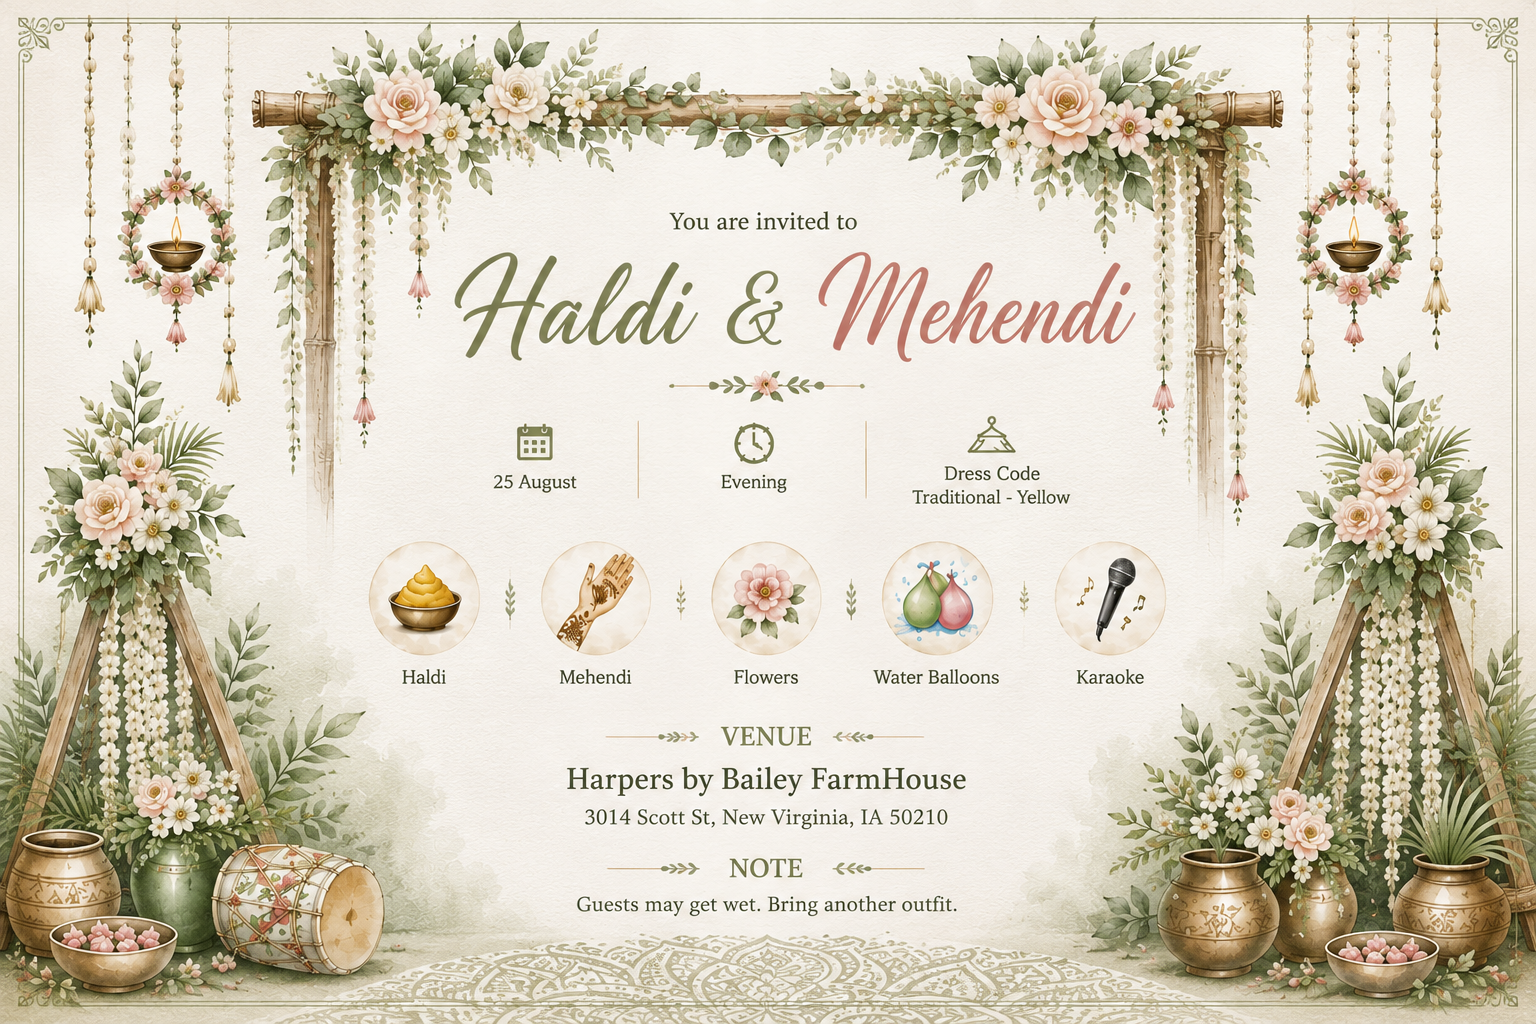
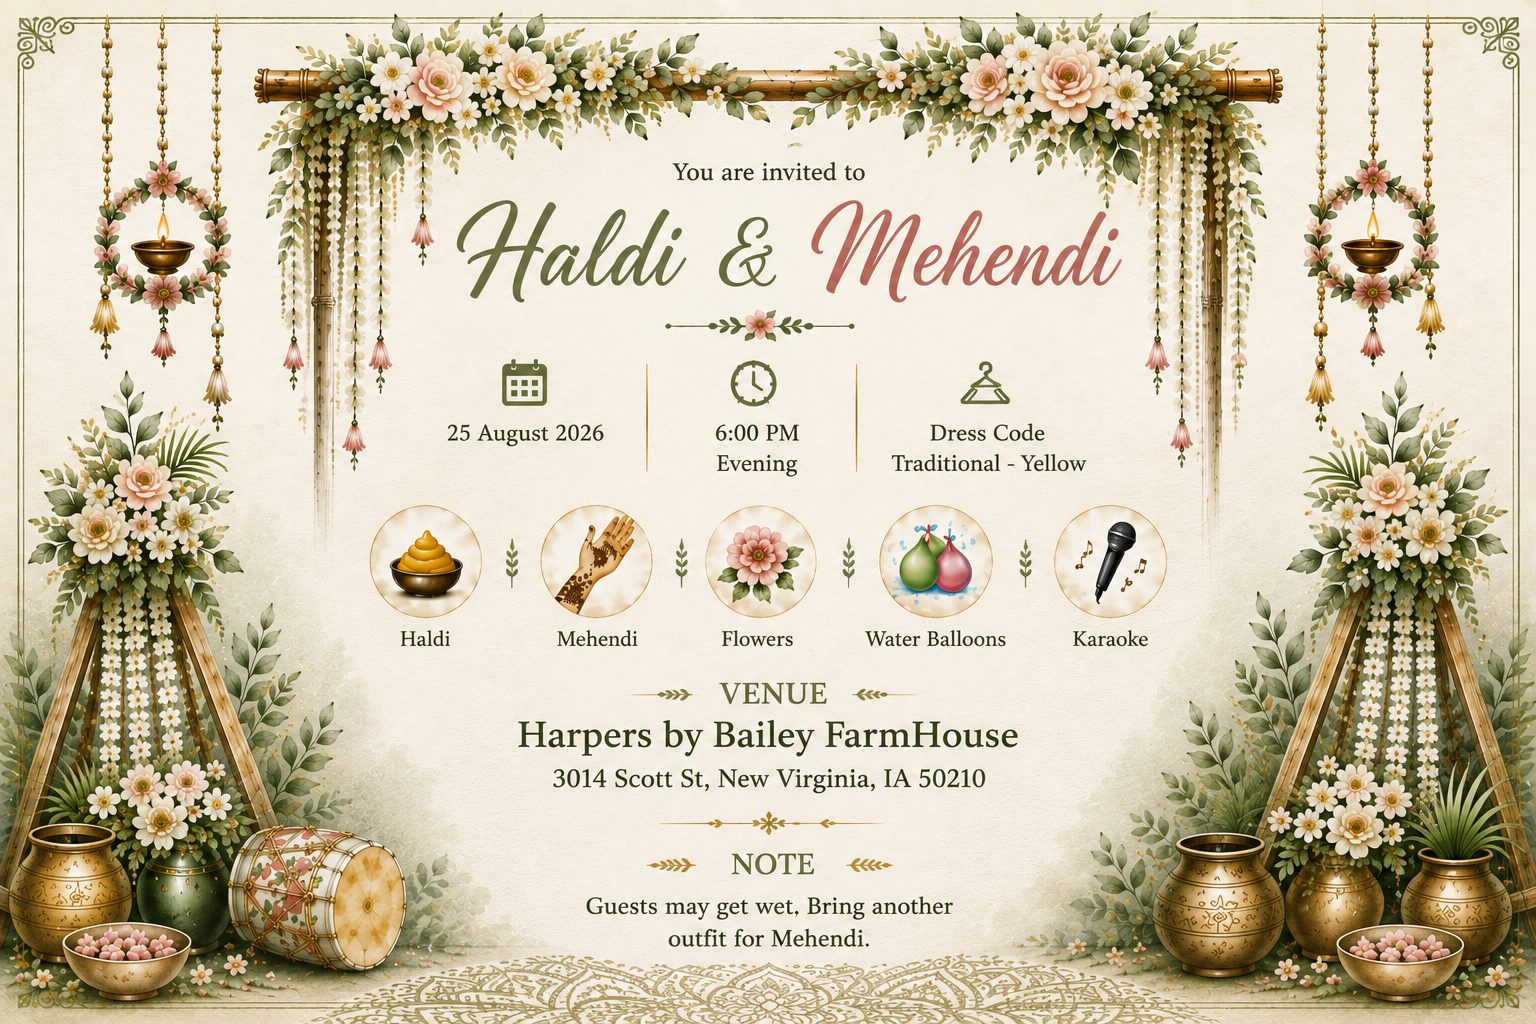
Change wedding date and time color to gold
Updated wedding date and time text color from green and sage tones
to gold (#D4AF37) for final touch-up.

diff --git a/frontend/src/app/components/scratch-off/scratch-off.component.ts b/frontend/src/app/components/scratch-off/scratch-off.component.ts
@@ -142,14 +142,14 @@ import { ConfettiService } from '../../services/confetti.service';
       font-size: 32px;
       font-family: 'Georgia', serif;
       margin: 0;
-      color: #7a9d5d;
+      color: #D4AF37;
       font-weight: 400;
     }
 
     .wedding-time {
       font-size: 16px;
       margin: 0;
-      color: #9AA68A;
+      color: #D4AF37;
       font-weight: 300;
     }
 
